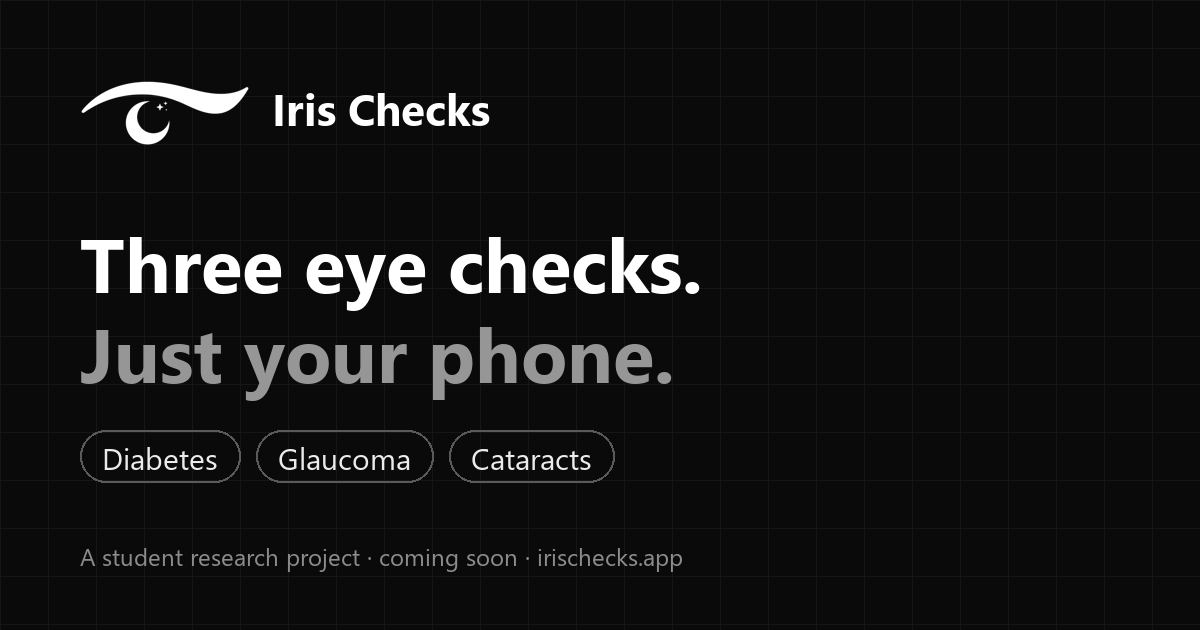
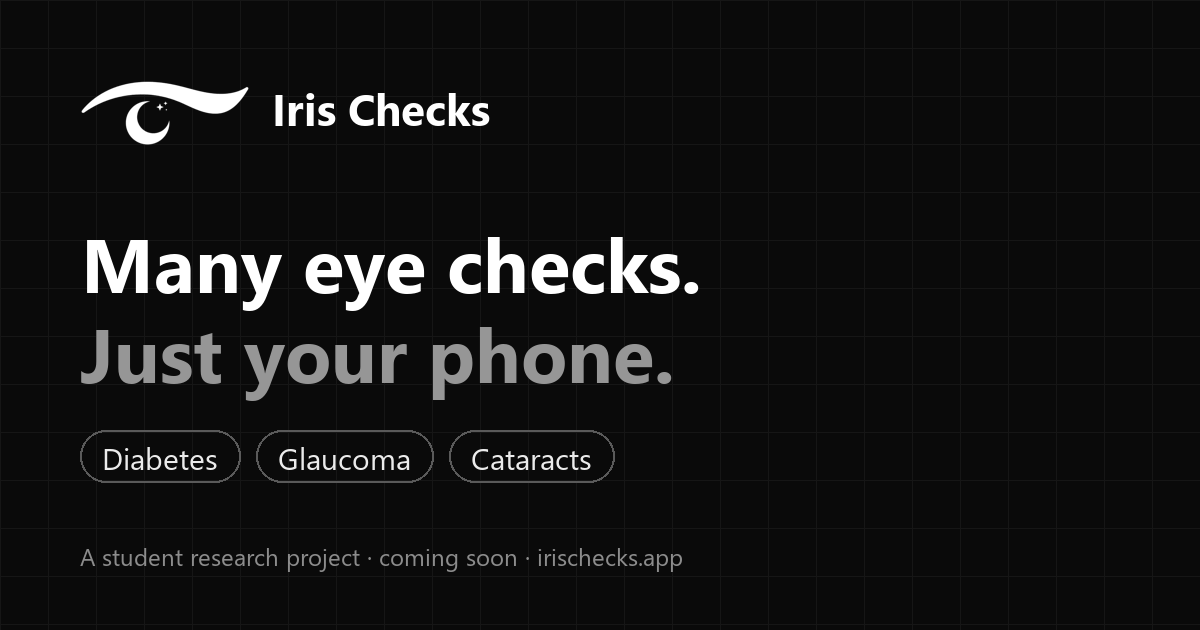
Slogan "Many eye checks. Just your phone."; remove the sponsors and supporters section

Changed region(s): [[0.0617, 0.3619, 0.2467, 0.5127], [0.37, 0.3921, 0.555, 0.4524], [0.2775, 0.3921, 0.3392, 0.4825]]

diff --git a/iris-web/app/page.tsx b/iris-web/app/page.tsx
@@ -1,5 +1,5 @@
 import Link from "next/link";
-import { BookOpen, Building2, GraduationCap, HeartHandshake, ShieldCheck, Smartphone, Stethoscope, Users } from "lucide-react";
+import { BookOpen, ShieldCheck, Smartphone, Users } from "lucide-react";
 import TestimonialsBlock from "@/components/ui/testimonials-2";
 import { HeroSection } from "@/components/blocks/hero-section-6";
 import { SiteFooter } from "@/components/blocks/site-footer";
@@ -11,12 +11,6 @@ import { RoadmapSection } from "@/components/blocks/roadmap-section";
 import { BlurRevealText } from "@/components/ui/blur-reveal";
 import { SCAN_STEPS } from "@/lib/checks";
 import { SITE_DESCRIPTION, SITE_NAME, SITE_URL } from "@/lib/site";
-
-const supporterTypes = [
-  { icon: Stethoscope, title: "Clinics and eye doctors", body: "Advice on safe testing and checking our results against clinic devices." },
-  { icon: GraduationCap, title: "Schools and mentors", body: "Guidance from teachers, engineers and researchers as we build and test." },
-  { icon: Building2, title: "Local organizations", body: "Help reaching people who could benefit from a free eye check." },
-];
 
 // Tells search engines the site's name and logo (shown in Google results).
 const structuredData = {
@@ -79,47 +73,6 @@ export default function Home() {
       <TestimonialsBlock />
 
       <RoadmapSection />
-
-      <section id="supporters" className="scroll-mt-24 border-t">
-        <div className="mx-auto max-w-5xl px-6 py-24">
-          <Reveal className="max-w-2xl">
-            <p className="text-sm font-medium uppercase tracking-widest text-muted-foreground">Sponsors and supporters</p>
-            <h2 className="mt-3 text-balance text-3xl font-bold md:text-4xl">Help us bring eye checks to every phone</h2>
-            <p className="mt-4 text-muted-foreground">
-              Iris is a student project and we&apos;re looking for our first sponsors and supporters. Your name or logo could be here.
-            </p>
-          </Reveal>
-
-          <div className="mt-12 grid grid-cols-2 gap-4 md:grid-cols-4">
-            {[0, 1, 2, 3].map((i) => (
-              <Reveal key={i} effect="zoom" delay={i * 100}>
-                <div className="flex aspect-[3/2] items-center justify-center rounded-2xl border border-dashed border-foreground/25 text-center text-sm text-muted-foreground transition-colors duration-300 hover:border-foreground hover:text-foreground">
-                  <span className="flex flex-col items-center gap-2">
-                    <HeartHandshake className="size-5" />
-                    Your logo here
-                  </span>
-                </div>
-              </Reveal>
-            ))}
-          </div>
-
-          <div className="mt-12 grid gap-4 md:grid-cols-3">
-            {supporterTypes.map(({ icon: Icon, title, body }, i) => (
-              <Reveal key={title} delay={i * 120}>
-                <div className="h-full rounded-2xl border bg-card p-6">
-                  <Icon className="size-5" />
-                  <h3 className="mt-4 font-semibold">{title}</h3>
-                  <p className="mt-2 text-sm text-muted-foreground">{body}</p>
-                </div>
-              </Reveal>
-            ))}
-          </div>
-
-          <Reveal className="mt-10">
-            <p className="text-sm text-muted-foreground">Interested in supporting Iris? Contact details for the team are coming soon.</p>
-          </Reveal>
-        </div>
-      </section>
 
       <section id="about" className="scroll-mt-24 overflow-hidden border-t bg-muted/40">
         <div className="mx-auto grid max-w-5xl gap-10 px-6 py-24 md:grid-cols-[1.1fr_1fr]">

diff --git a/iris-web/lib/knowledge.ts b/iris-web/lib/knowledge.ts
@@ -21,7 +21,7 @@ export const KNOWLEDGE: string[] = [
   "Privacy: camera images are planned to be processed on the phone and never uploaded. Chat messages are sent to Hack Club AI and an AI model provider to write replies; the site doesn't store chat content on its server. Chat history, the chat's position and the light/dark choice are saved only in the visitor's browser and can be removed with 'New chat' or 'Clear saved data' in the footer. Full details are on the Privacy Policy page (/privacy).",
   "What isn't known yet: pupil studies found differences between groups of people with and without diabetes, on average, using special clinic devices; the groups overlap, so a pupil test can't say yes or no for one person, and it misses some people who have diabetes. Whether a phone can measure this well enough to help find undiagnosed diabetes is a research question the team is testing, not something proven. A normal result does not rule out diabetes. Doctors diagnose diabetes with blood tests such as A1C or blood glucose.",
   "Iris is not a medical device and does not diagnose anything. It is meant to help people decide when to get checked by a doctor. The Terms of Service are at /terms.",
-  "Website: the home page has the three checks (each with why it matters, evidence, limits and the next step), an interactive 3D eye (press 'Flash the light' to watch a pupil react), How it works (about 30 seconds: line up, one flash for both eyes, one flash per eye, three results), a Coming soon app preview with example data, quotes, a Roadmap, Supporters, About, and a scrolling FAQ. The Research page (/research) lists the studies. The Team page (/team) is coming soon. The team is looking for its first sponsors and supporters. Contact details are coming soon.",
+  "Website: the home page has the three checks (each with why it matters, evidence, limits and the next step), How it works (about 30 seconds: line up, one flash for both eyes, one flash per eye, three results), quotes, a Roadmap, About, and a scrolling FAQ. The Research page (/research) lists the studies. The Team page (/team) is coming soon. Contact details are coming soon.",
   `Roadmap (goals, dates may change): ${ROADMAP.map((r) => `${r.title} (${r.status}): ${r.heading} - ${r.items.join("; ")}.`).join(" ")}`,
   "Team: Iris is built by a team of students with help from mentors. Names and photos will be added to the Team page (/team) soon. Don't name or invent team members.",
   ...IRIS_FAQS.map(({ question, answer }) => `FAQ: ${question} ${answer}`),

diff --git a/iris-web/components/ui/footer-section.tsx b/iris-web/components/ui/footer-section.tsx
@@ -2,7 +2,7 @@
 
 import * as React from "react"
 import Link from "next/link"
-import { ArrowUp, BookOpen, HeartHandshake, MessageCircle, Moon, Send, Sun, Trash2 } from "lucide-react"
+import { ArrowUp, BookOpen, MessageCircle, Moon, Send, Sun, Trash2 } from "lucide-react"
 import { Button } from "@/components/ui/button"
 import { Input } from "@/components/ui/input"
 import { Label } from "@/components/ui/label"
@@ -22,7 +22,6 @@ const quickLinks = [
   { label: "Roadmap", section: "roadmap" },
   { label: "Research", href: "/research" },
   { label: "Team (coming soon)", href: "/team" },
-  { label: "Supporters", section: "supporters" },
   { label: "FAQ", section: "faq" },
 ]
 
@@ -56,7 +55,6 @@ function Footerdemo() {
   const actions = [
     { label: "Ask our AI assistant", icon: MessageCircle, onClick: () => openChat() },
     { label: "Read the research", icon: BookOpen, href: "/research" },
-    { label: "Become a supporter", icon: HeartHandshake, section: "supporters" },
     { label: "Back to top", icon: ArrowUp, onClick: () => window.scrollTo({ top: 0, behavior: "smooth" }) },
   ]
 
@@ -130,7 +128,7 @@ function Footerdemo() {
             <h3 className="mb-4 text-lg font-semibold">Explore</h3>
             <TooltipProvider delayDuration={150}>
               <div className="mb-6 flex flex-wrap gap-3">
-                {actions.map(({ label, icon: Icon, href, section, onClick }) => (
+                {actions.map(({ label, icon: Icon, href, onClick }) => (
                   <Tooltip key={label}>
                     <TooltipTrigger asChild>
                       {href ? (
@@ -138,12 +136,6 @@ function Footerdemo() {
                           <Link href={href} aria-label={label}>
                             <Icon className="h-4 w-4" />
                           </Link>
-                        </Button>
-                      ) : section ? (
-                        <Button asChild variant="outline" size="icon" className="rounded-full">
-                          <SectionLink section={section} aria-label={label}>
-                            <Icon className="h-4 w-4" />
-                          </SectionLink>
                         </Button>
                       ) : (
                         <Button variant="outline" size="icon" className="rounded-full" onClick={onClick} aria-label={label}>

diff --git a/iris-web/components/blocks/site-nav.tsx b/iris-web/components/blocks/site-nav.tsx
@@ -5,7 +5,6 @@ import {
     ChevronDown,
     CircleHelp,
     FileText,
-    HeartHandshake,
     Home,
     Info,
     LayoutGrid,
@@ -43,7 +42,6 @@ type MoreItem = { name: string; icon: LucideIcon; description: string; badge?: s
 const moreItems: MoreItem[] = [
     { name: 'Research', href: '/research', icon: BookOpen, description: 'The studies behind each check' },
     { name: 'Team', href: '/team', icon: Users, description: 'The students building Iris', badge: 'Soon' },
-    { name: 'Supporters', section: 'supporters', icon: HeartHandshake, description: 'Help bring eye checks to every phone' },
     { name: 'About', section: 'about', icon: Info, description: 'Why we started Iris' },
     { name: 'Privacy Policy', href: '/privacy', icon: Shield, description: 'What we collect (very little)' },
     { name: 'Terms of Service', href: '/terms', icon: FileText, description: 'Rules for using the site' },
@@ -54,7 +52,6 @@ const spySections: [id: string, nav: string][] = [
     ['checks', 'checks'],
     ['how-it-works', 'how-it-works'],
     ['roadmap', 'roadmap'],
-    ['supporters', 'more'],
     ['about', 'more'],
     ['faq', 'faq'],
 ]

diff --git a/iris-web/components/blocks/hero-section-6.tsx b/iris-web/components/blocks/hero-section-6.tsx
@@ -63,7 +63,7 @@ export function HeroSection({ children }: { children?: React.ReactNode }) {
                                 </SectionLink>
 
                                 <h1 className="mt-10 text-balance text-4xl font-bold tracking-tight md:text-6xl">
-                                    Three eye checks. <span className="text-muted-foreground">Just your phone.</span>
+                                    Many eye checks. <span className="text-muted-foreground">Just your phone.</span>
                                 </h1>
                                 <p className="mt-8 text-muted-foreground">
                                     Iris is exploring one 30-second phone scan that looks for signs linked to diabetes, glaucoma and cataracts, using

diff --git a/iris-web/components/blocks/tubelight-demo.tsx b/iris-web/components/blocks/tubelight-demo.tsx
@@ -1,4 +1,4 @@
-import { BookOpen, HeartHandshake, Home, Info, ListChecks } from 'lucide-react'
+import { BookOpen, Home, Info, ListChecks } from 'lucide-react'
 import { NavBar } from '@/components/ui/tubelight-navbar'
 
 // Reference usage of the tubelight navbar (the live site uses it inside components/blocks/site-nav.tsx).
@@ -7,7 +7,6 @@ export function NavBarDemo() {
         { name: 'Home', section: 'home', icon: Home },
         { name: 'How it works', section: 'how-it-works', icon: ListChecks },
         { name: 'Research', url: '/research', icon: BookOpen },
-        { name: 'Supporters', section: 'supporters', icon: HeartHandshake },
         { name: 'About', section: 'about', icon: Info },
     ]
 

diff --git a/iris-web/lib/site.ts b/iris-web/lib/site.ts
@@ -1,7 +1,7 @@
 /** Public address and search-engine details for the site. */
 export const SITE_URL = process.env.NEXT_PUBLIC_SITE_URL || "https://irischecks.app";
 export const SITE_NAME = "Iris Checks";
-export const SITE_TAGLINE = "Three eye checks. Just your phone.";
+export const SITE_TAGLINE = "Many eye checks. Just your phone.";
 export const SITE_DESCRIPTION =
   "Iris Checks is a student research project building a 30-second phone scan that looks for signs linked to diabetes, glaucoma and cataracts, using only your camera and screen light. Coming soon.";
 
